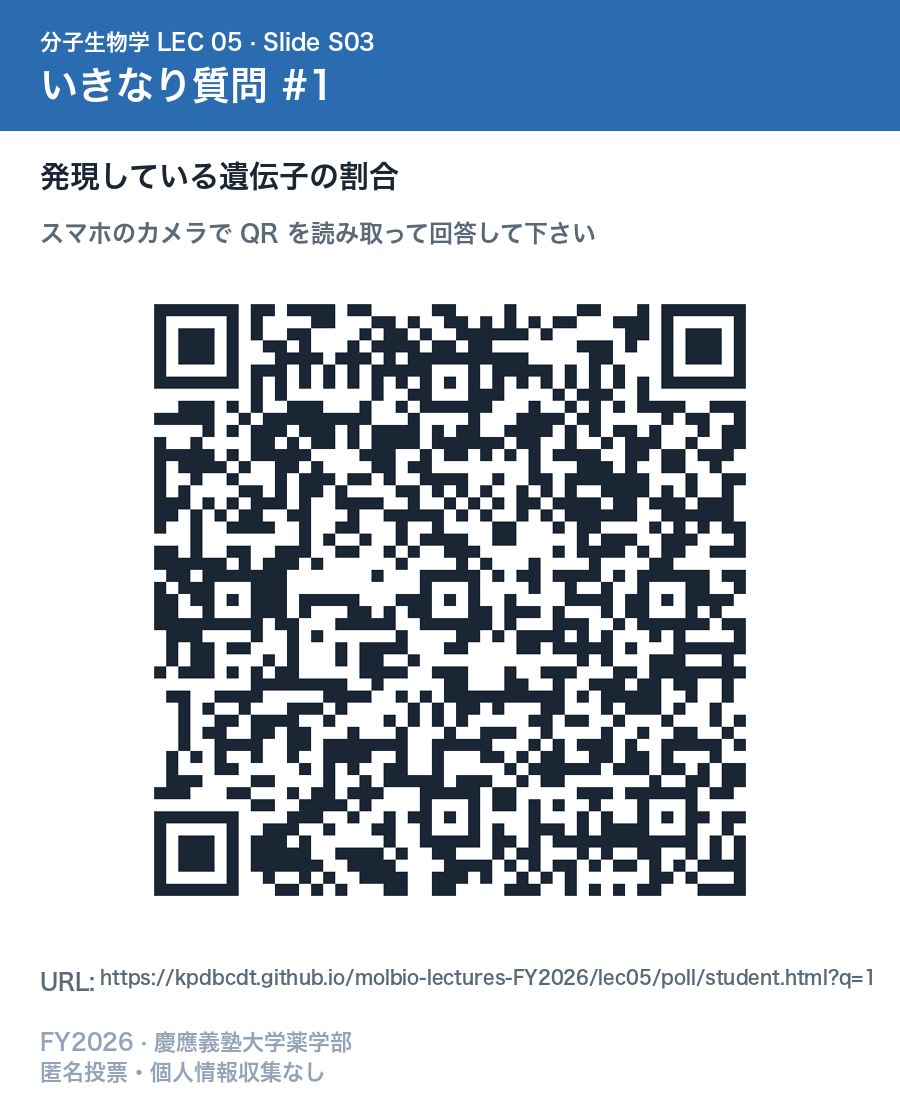
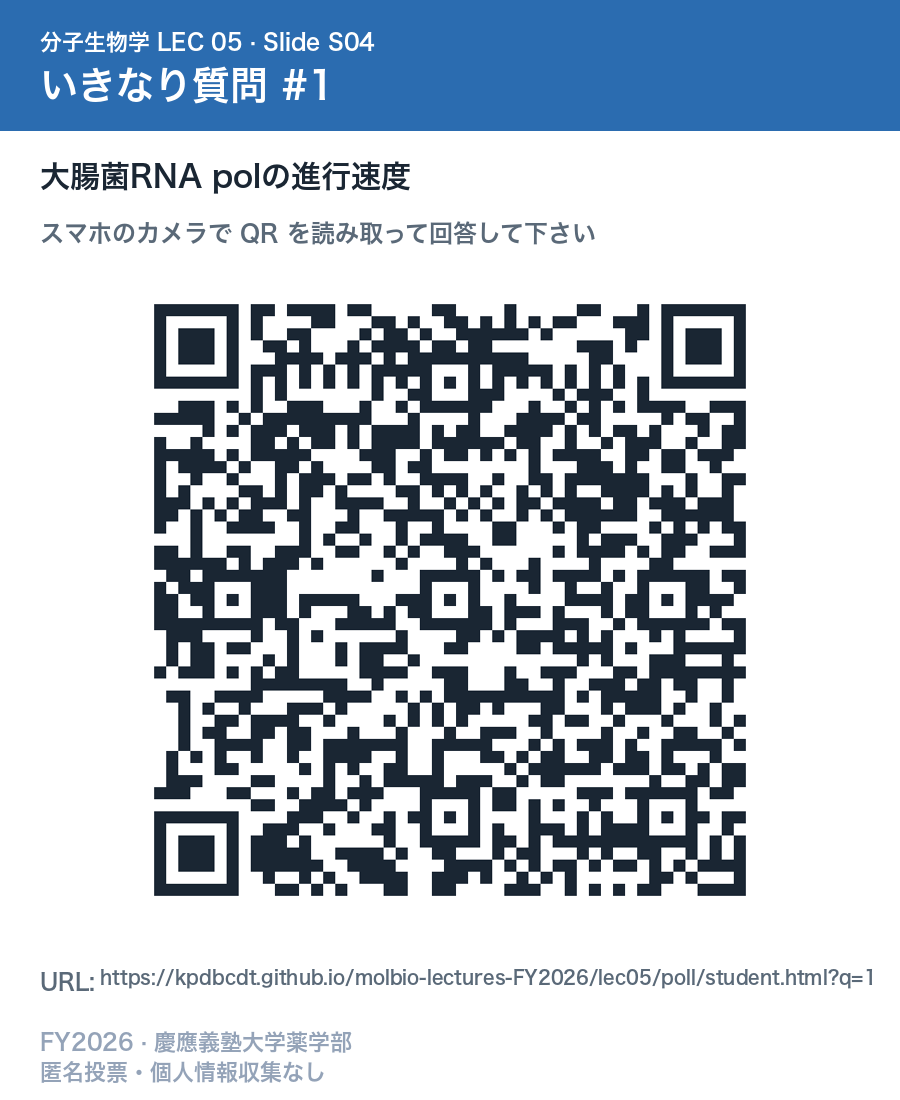
Lec05 poll: realign Q1/Q2/Q3 to PPTX S04/S09/S25
PPTX 9:19 final-version (仮) has Q1 on S04 (RNA pol 速度), Q2 on S09
(mRNA 半減期比), Q3 on S25 (mRNA 分子総数). Previous poll-data.js still
had the old set (発現遺伝子%, DNA→mRNA演習, リファンピシン作用段階)
which would have caused a complete disconnect between slide-shown Q
and student-phone Q on 5/14.

Update:
- poll-data.js: 3 questions replaced; slide refs S03/S07/S14 → S04/S09/S25
- generate_qr.py: QUESTIONS dict updated; labeled QR PNGs regenerated
- Plain qr_q[1-3].png unchanged (URL identical, only label changes)

Aligned with Speaker_Notes/Draft/Student_Notes (all PPTX-driven).

Changed region(s): [[0.0311, 0.1236, 0.4667, 0.1855], [0.4044, 0.0309, 0.4356, 0.0618]]

diff --git a/lec05/poll/poll-data.js b/lec05/poll/poll-data.js
@@ -1,44 +1,45 @@
 // Poll questions for Lec05 — 転写
 // q1-q3: いきなり質問
+// Updated 2026-05-12: aligned with PPTX S04/S09/S25 (RNA pol 速度 / mRNA 半減期 / mRNA 総数)
 
 export const POLLS = {
   q1: {
     id: 'q1',
-    slide: 'S03',
-    stem: 'ヒトの細胞1個には約20,000の遺伝子があります。ある時点で転写されている（mRNAとして発現している）遺伝子はおよそ何%でしょうか？',
+    slide: 'S04',
+    stem: '大腸菌の RNA ポリメラーゼが 1 秒間にゲノム DNA 上で進むヌクレオチド数は？',
     options: [
-      'A) 約1%（ごく一部の遺伝子のみ）',
-      'B) 約10%（厳選された遺伝子）',
-      'C) 約40%（ハウスキーピング + 組織特異的）',
-      'D) 約100%（全遺伝子が常時転写）',
+      'A) ~5 nt/秒',
+      'B) ~50 nt/秒',
+      'C) ~500 nt/秒',
+      'D) ~5,000 nt/秒',
     ],
-    correct: 2,
-    reveal: '答え: C) 約40%。典型的な哺乳類細胞では20,000遺伝子のうち約8,000〜12,000（40〜60%）が転写されています。ハウスキーピング遺伝子が約3,000〜5,000（アクチン、GAPDH、リボソームタンパク質）、残りは組織特異的（肝細胞ならアルブミン、膵β細胞ならインスリン）。1細胞あたりのmRNA分子数は約200,000〜300,000コピー。同じゲノムから肝・神経・筋の細胞が分化できるのは転写される遺伝子セットが違うから — 次回（Lec06）の主題。',
+    correct: 1,
+    reveal: '答え: B) ~50 nt/秒。大腸菌 RNA pol は 40-80 nt/秒 @37℃ (典型 ~50)。DNA Pol III (~1,000 bp/秒) より約 20 倍遅い。翻訳速度 ~20 aa/秒 = 60 nt/秒 相当 → 転写と翻訳がほぼ同速度。これが Miller spread の Christmas tree (転写中の RNA に既にリボソームが付く) で観察される共役の物質的基盤。真核 Pol II は ~25 nt/秒 で、ジストロフィン遺伝子 (1.6 Mb) を 1 本転写するのに ~16 時間かかる。nt = nucleotide (ヌクレオチド残基)、Lec04 の bp/秒 と等価でポリメラーゼ単体の合成速度。',
   },
   q2: {
     id: 'q2',
-    slide: 'S07',
-    stem: '以下のDNA二本鎖の上の鎖が鋳型鎖として転写される場合、生成されるmRNAの配列は？ 5\u2032-ATGCCTAG-3\u2032（上の鎖 = 鋳型） / 3\u2032-TACGGATC-5\u2032（下の鎖）',
+    slide: 'S09',
+    stem: 'ヒト細胞の典型的な mRNA 半減期は、大腸菌の典型的な mRNA 半減期の何倍？',
     options: [
-      'A) 5\u2032-AUGCCUAG-3\u2032',
-      'B) 5\u2032-GAUCGGUA-3\u2032',
-      'C) 5\u2032-CUAGGCAU-3\u2032',
-      'D) 5\u2032-UACGGAUC-3\u2032',
+      'A) ~10 倍',
+      'B) ~100 倍',
+      'C) ~1,000 倍',
+      'D) ~10,000 倍',
     ],
-    correct: 2,
-    reveal: '答え: C) 5\u2032-CUAGGCAU-3\u2032。RNAポリメラーゼは鋳型鎖（上の鎖）を3\u2032\u21925\u2032方向に読むので、上の鎖を右から読むと 3\u2032-GATCCGTA-5\u2032。その相補RNA配列を5\u2032\u21925\u2032で書くと 5\u2032-CUAGGCAU-3\u2032。ルール: 鋳型鎖を3\u2032\u21925\u2032で読み、相補鎖を5\u2032\u21925\u2032で書く — 試験頻出パターン。',
+    correct: 1,
+    reveal: '答え: B) ~100 倍。大腸菌の mRNA 半減期は中央値 ~5 分 (分布 1-20 分)、ヒトは ~10 時間 = 600 分 → 600/5 = 120 倍 ≈ 100 倍。酵母は ~20 分で中間。経験則: mRNA 半減期 ≈ 細胞周期 × 1/5 (進化的最適化)。なぜ違うか: 大腸菌は環境応答型で短命 (lac オペロンは数分でフル切替)、真核は転写 (核) と翻訳 (細胞質) の空間分離 + 細胞分化・概日リズムなど時間-日スケールの制御で長持ち。RNA 分解機構も逆: 原核では polyA は不安定化、真核では polyA は安定化シグナル。',
   },
   q3: {
     id: 'q3',
-    slide: 'S14',
-    stem: '結核の第一選択薬リファンピシンは、細菌のRNAポリメラーゼのどの段階を阻害しますか？',
+    slide: 'S25',
+    stem: 'ヒト細胞 1 個に存在する mRNA 分子の総数の概数は？',
     options: [
-      'A) プロモーターへの結合（閉鎖型複合体の形成）',
-      'B) 転写の開始（最初の数ヌクレオチドの合成）',
-      'C) 転写の伸長（長いRNA鎖の合成）',
-      'D) 転写の終結',
+      'A) ~10² 個',
+      'B) ~10⁴ 個',
+      'C) ~10⁵-10⁶ 個',
+      'D) ~10⁸ 個',
     ],
-    correct: 1,
-    reveal: '答え: B) 転写の開始。リファンピシンは細菌RNAポリメラーゼのβサブユニット（RNA exit channel 付近）に結合し、新生RNAが2〜3ntを超えて伸長するのを物理的にブロック。ホロ酵素のDNA結合自体は阻害しない。既に伸長段階に入ったRNAポリメラーゼはRNA鎖がポケットを占有しているため阻害されない。耐性機構: rpoB遺伝子のRRDR領域変異（特にSer531Leu）。CYP3A4誘導薬でもあり薬物相互作用注意（ワルファリン、経口避妊薬、HIV薬等）。',
+    correct: 2,
+    reveal: '答え: C) ~10⁵-10⁶ 個 (約 200,000 個、BNID 109916)。「ヒト遺伝子は ~20,000 種類だから 2×10⁴」と直感的に B を選びがちだが、種類と分子数は違う。1 つの遺伝子から複数の mRNA がコピーとして作られる。計算根拠 (CBN p.120): 哺乳類細胞は ~10¹⁰ タンパク質、世代時間 24 時間 → タンパク質生産 ~10⁵/秒 ÷ 0.1-1 protein/mRNA/秒 = ~10⁵-10⁶ mRNA。大腸菌は ~10³-10⁴。遺伝子数 ~20,000 vs mRNA 数 ~200,000 で平均 10 copies/gene だが、実際は極端な偏り (大半 silent、ごく少数の高発現遺伝子が大半を占める)。少数性は stochastic gene expression (転写バースト、確率論的発現) の源で、幹細胞運命・がん異質性・薬剤耐性の起源。',
   },
 };

diff --git a/lec05/poll/generate_qr.py b/lec05/poll/generate_qr.py
@@ -13,9 +13,9 @@ BASE_URL = "https://kpdbcdt.github.io/molbio-lectures-FY2026/lec05/poll/student.
 OUT_DIR = os.path.dirname(os.path.abspath(__file__))
 
 QUESTIONS = {
-    1: ("S03", "発現している遺伝子の割合"),
-    2: ("S07", "二本鎖DNAからの mRNA 配列"),
-    3: ("S14", "リファンピシンの作用段階"),
+    1: ("S04", "大腸菌RNA polの進行速度"),
+    2: ("S09", "ヒトと大腸菌のmRNA半減期比"),
+    3: ("S25", "ヒト細胞1個のmRNA分子総数"),
 }
 
 
